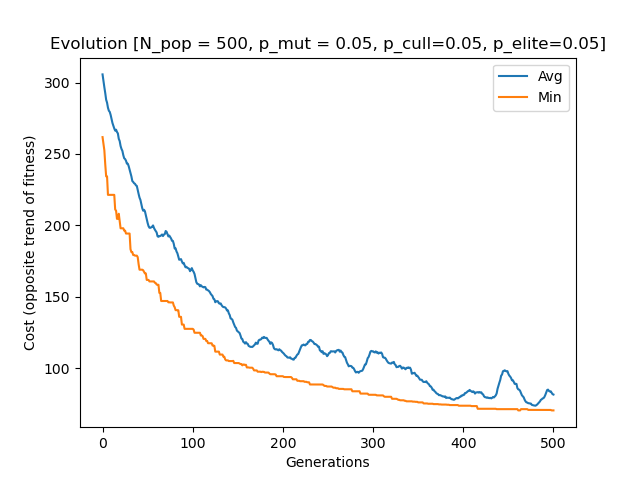
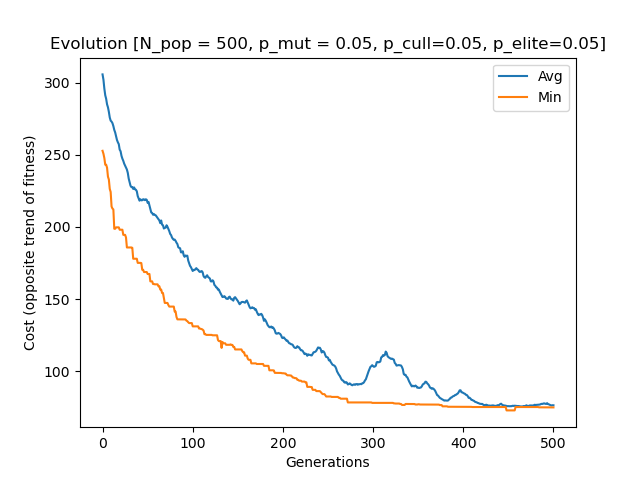
finished:

diff --git a/A4/tictactoe/main.py b/A4/tictactoe/main.py
@@ -7,14 +7,16 @@ from tictactoe import TicTacToe
 from player import Player
 from heuristics import Heuristics
 from naive_heuristics import NaiveHeuristics
+from my_heuristics import MyHeuristics
 
 # define heuristics
 basic_h = Heuristics()
 naive_h = NaiveHeuristics()
+my_h = MyHeuristics()
 
 #define players
-playerA = Player(1, basic_h, 'Player A')
-playerB = Player(1, naive_h, 'Player B')
+playerA = Player(1, my_h, 'Player A')
+playerB = Player(1, basic_h, 'Player B')
 stats = {'Player A wins': 0, 'Player B wins': 0, 'Tied': 0}
 
 # set the board size of the game
@@ -29,26 +31,29 @@ playerB.set_k_ply(k)
 
 # start the game with players A and B
 # use print_steps=False to remove printouts of moves
-game = TicTacToe(board_size, playerA, playerB, print_steps=True)
+game = TicTacToe(board_size, playerA, playerB, print_steps=False)
 
-# Player A moves first
-game.reset()
-game.set_players(playerA, playerB)
-result, winner = game.start()
-print(result)
-if winner is None:
-    stats['Tied'] += 1
-else:
-    stats['{} wins'.format(winner.name)] += 1
-
-# Player B moves first
-game.reset()
-game.set_players(playerB, playerA)
-result, winner = game.start()
-print(result)
-if winner is None:
-    stats['Tied'] += 1
-else:
-    stats['{} wins'.format(winner.name)] += 1
+for i in range(5):
+    # Player A moves first
+    game.reset()
+    game.set_players(playerA, playerB)
+    result, winner = game.start()
+    print(result)
+    if winner is None:
+        stats['Tied'] += 1
+    else:
+        stats['{} wins'.format(winner.name)] += 1
+    
+    # Player B moves first
+    game.reset()
+    game.set_players(playerB, playerA)
+    result, winner = game.start()
+    print(result)
+    if winner is None:
+        stats['Tied'] += 1
+    else:
+        stats['{} wins'.format(winner.name)] += 1
+    
+    print('\n')
 
 print(stats)

diff --git a/A4/GA/GA.py b/A4/GA/GA.py
@@ -17,7 +17,7 @@ N_POP = 500 # population size
 NUM_GENERATIONS = 500 #number of generations to run
 MUTATION_PROB = 0.05 #probability of an individual being mutated
 CULLING_PERC = 0.05 #percentage of the least fit individuals to be removed
-ELITE_PERC = 0.05 #proportion of best individuals to carry over from one generation to the next
+ELITE_PERC = 0.25 #proportion of best individuals to carry over from one generation to the next
 OUT_DIR = 'fig/' #directory where to place the plots (it will be automatically created if not existent)
 
 #create output directory if not present
@@ -62,7 +62,7 @@ for curr_iter in range(NUM_GENERATIONS):
 
 best_solution = population.get_best_individual()
 print("Best solution found has cost [{:.2f}]\n{}".format(best_solution.fitness, best_solution.tour))
-print(f"\nPopulation Size = {len(population)}")
+print(f"Population Size = {len(population)}")
 
  #plot results
 import matplotlib.pyplot as plt

diff --git a/A4/tictactoe/my_heuristics.py b/A4/tictactoe/my_heuristics.py
@@ -1,0 +1,20 @@
+#!/usr/bin/env python3
+# -*- coding: utf-8 -*-
+
+from heuristics import Heuristics
+
+class MyHeuristics(Heuristics):
+    def __init__(self):
+        super().__init__()
+        self.patterns = {
+                        'iiiii' : 100,
+                        '_iiii_' : 30,
+                        '_ii_ii_' : 20,
+                        '_iii_' : 10,
+                        '_ii_' : 5,
+                        'ii_' : 2,
+                        '_ii' : 2,
+                        '__i__' : 1,
+                        '1' : 1,
+                        't' : -1
+                         }
